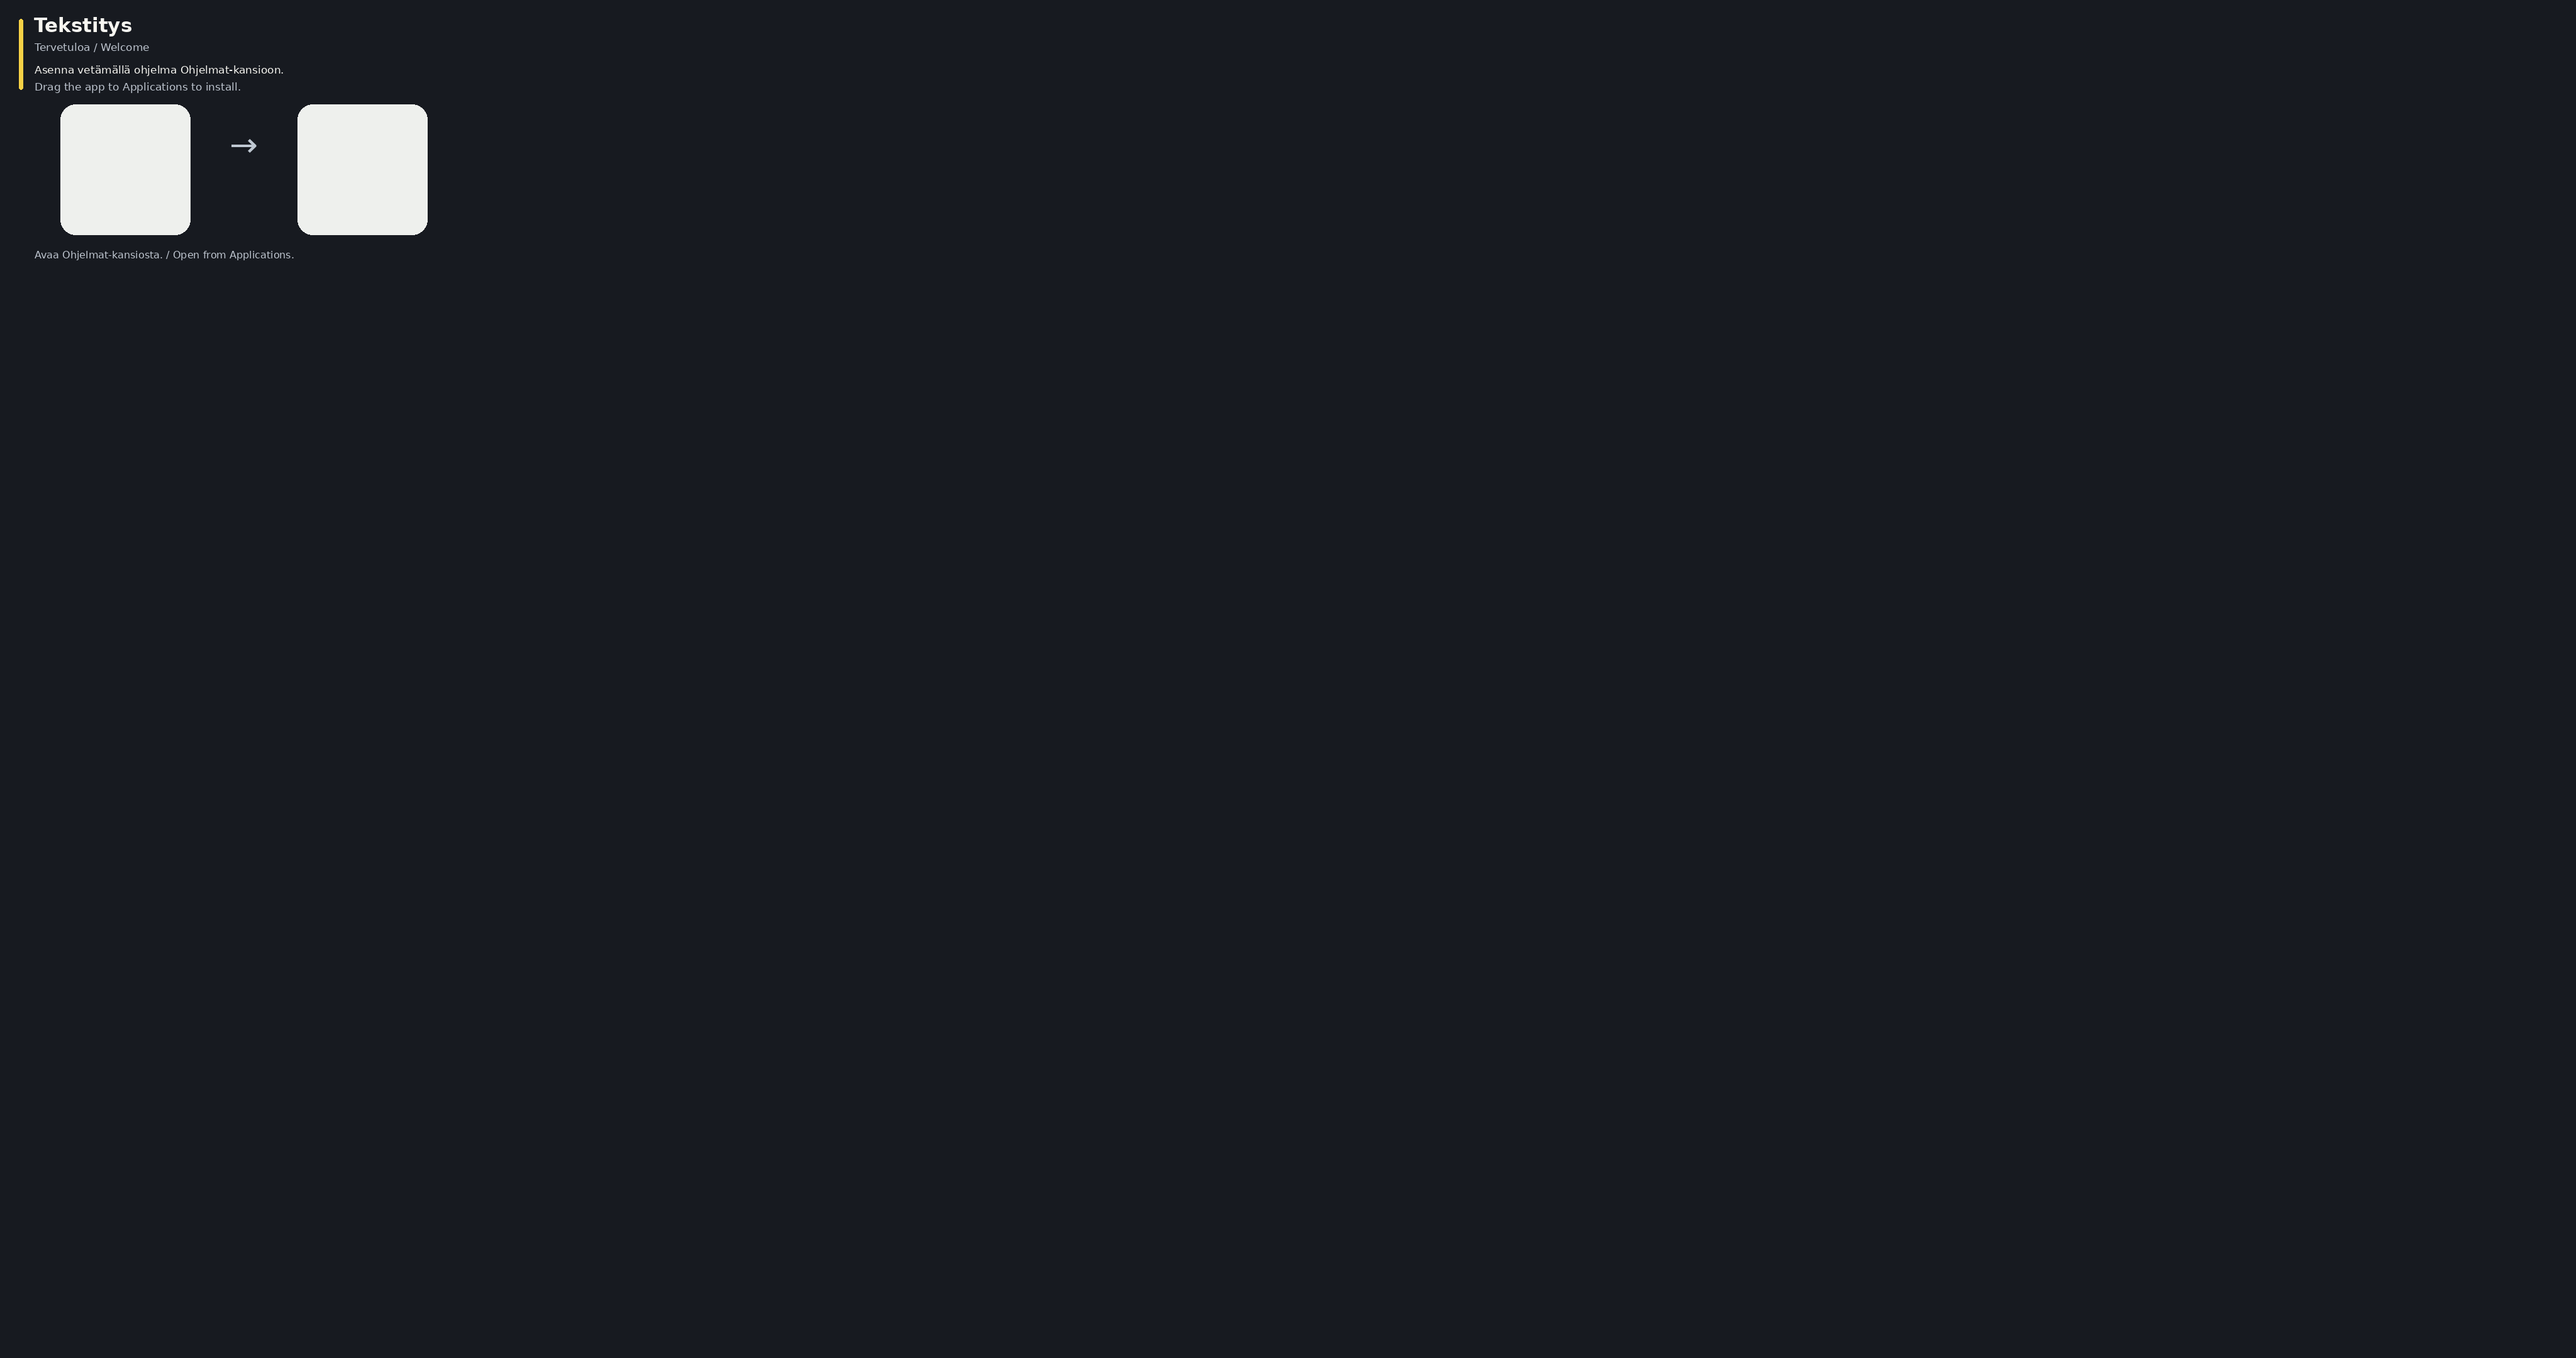
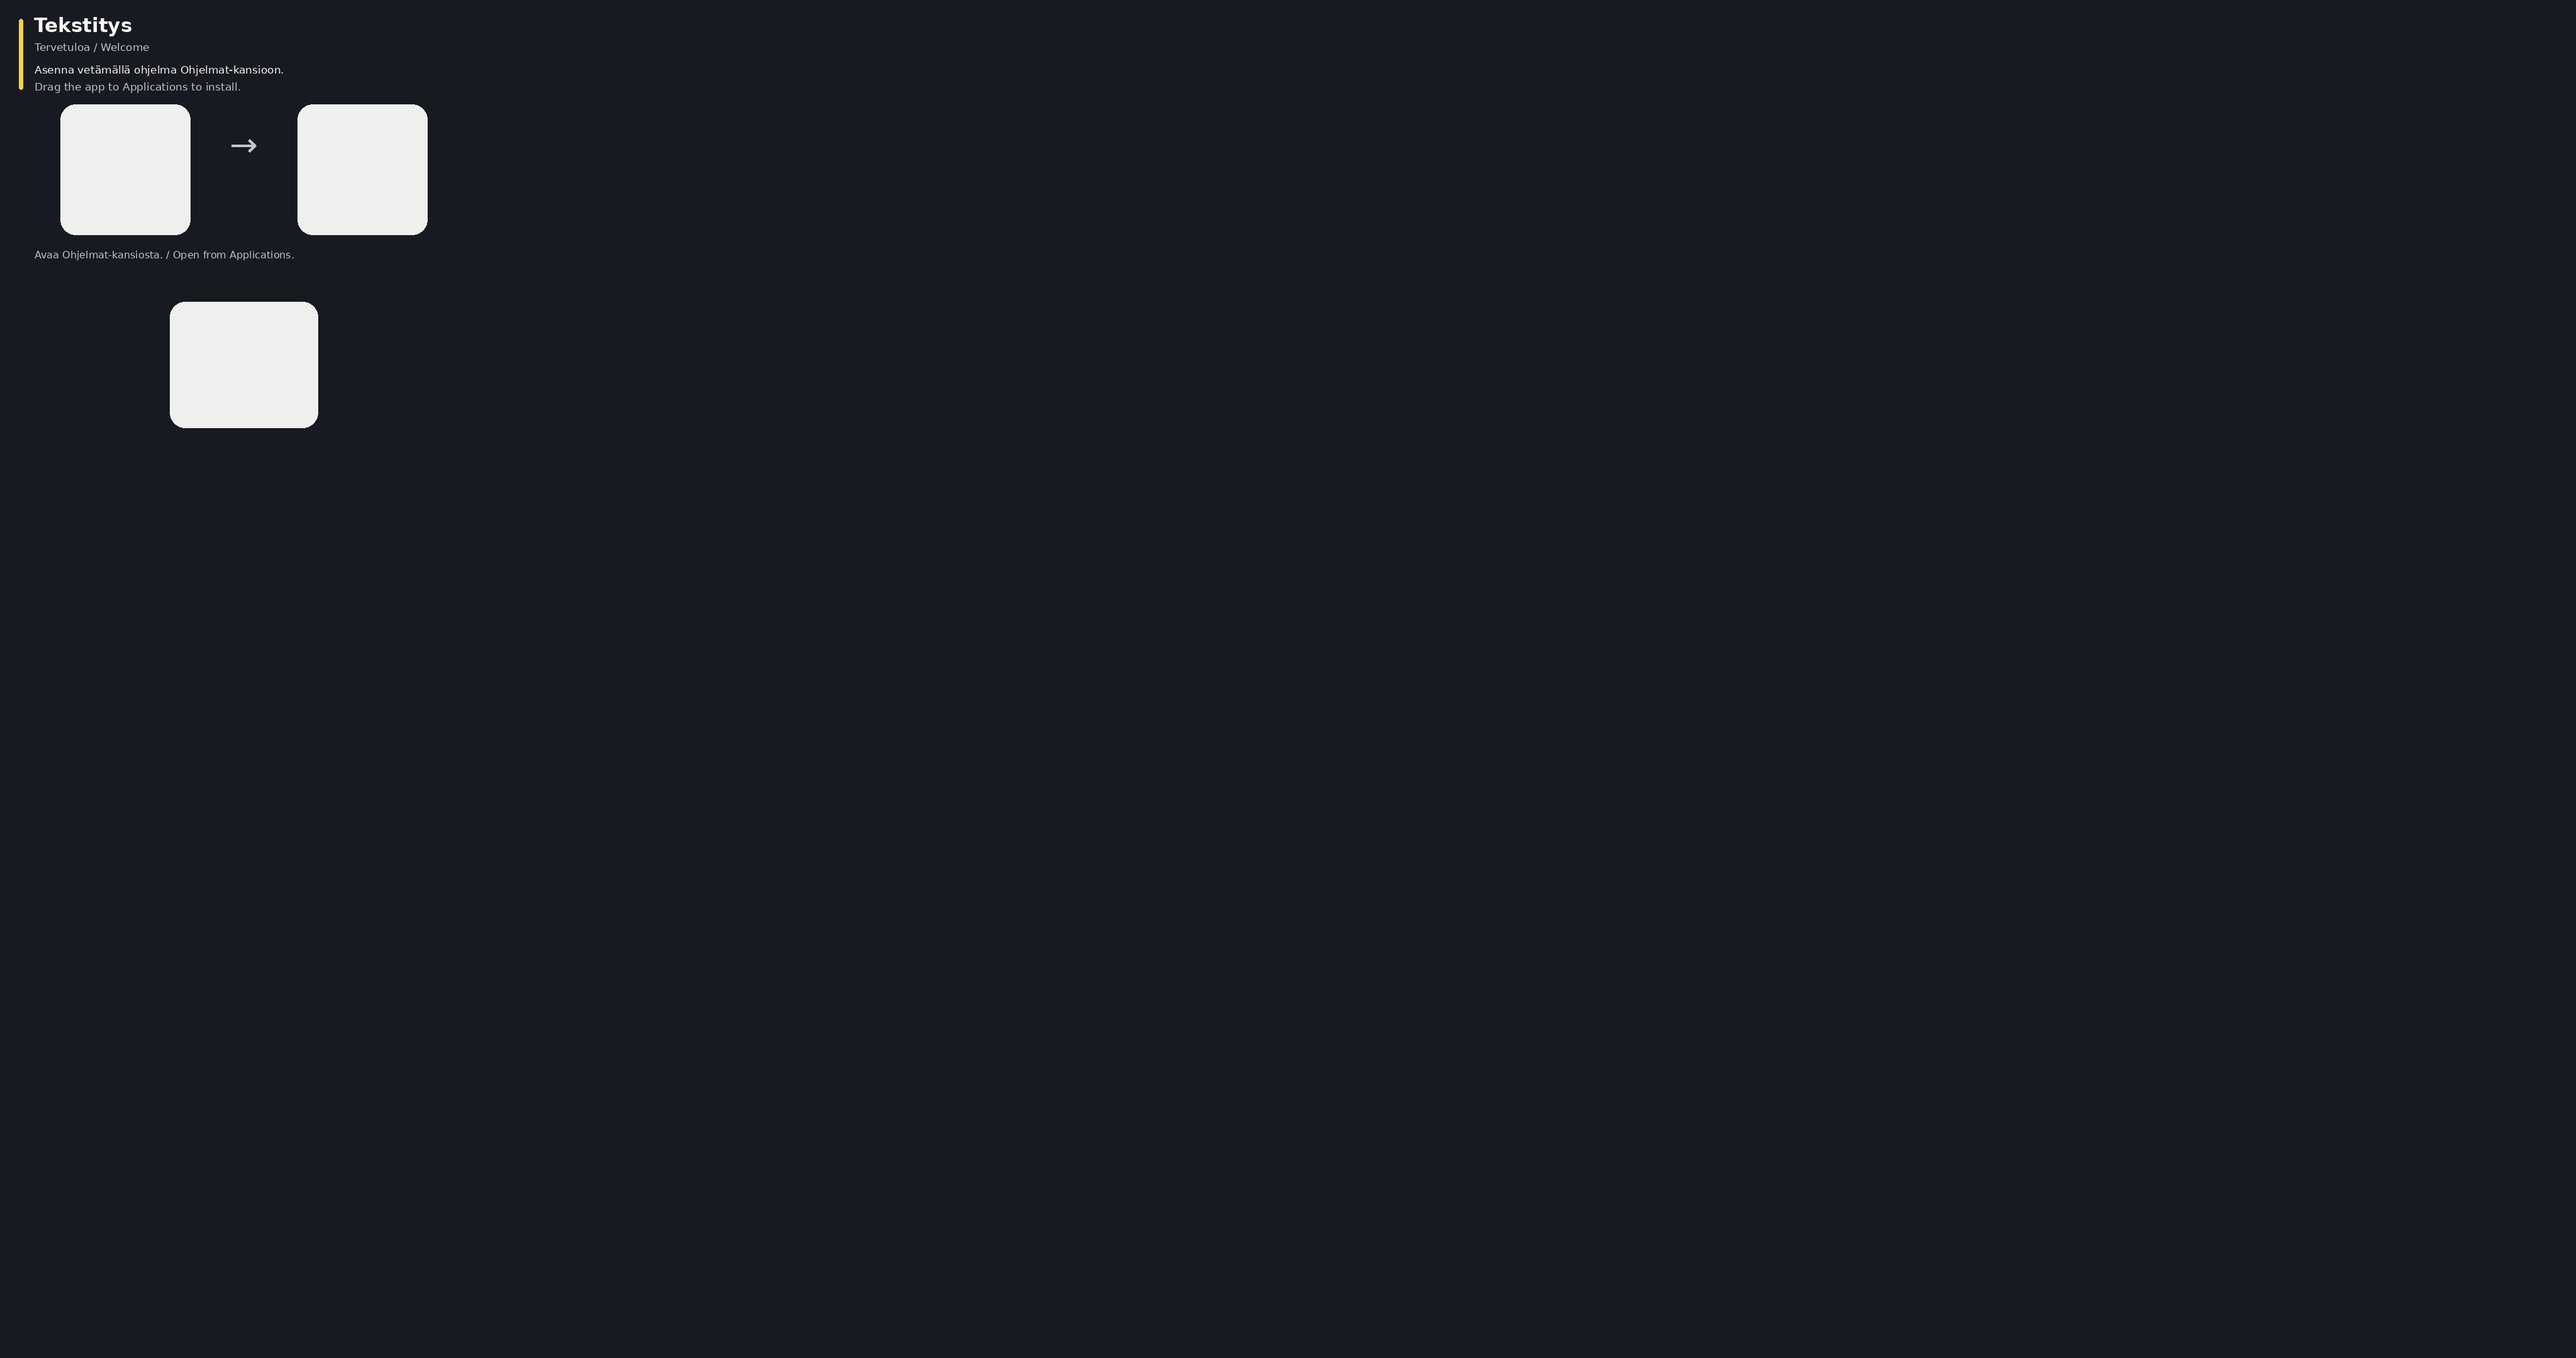
DMG welcome: third light well for the sources tarball, taller window
Devin finding on PR #76: proofreading-corresponding-sources.tar.gz sat at
(388,430) on the dark surround, so Finder rendered its black filename label
on near-black artwork. Mirror the Solmu pattern: add a third light well at
(270,480)-(505,680), move the tarball to (388,560) via --extra, and raise
the initial Finder window to 775x760 so the icon and label stay inside the
well. Regenerate the committed PNG.

Changed region(s): [[0.0625, 0.2171, 0.125, 0.3412]]

diff --git a/packaging/dmg/restyle.py b/packaging/dmg/restyle.py
@@ -22,7 +22,7 @@ APPLESCRIPT = """on run argv
         set current view of w to icon view
         set toolbar visible of w to false
         set statusbar visible of w to false
-        set bounds of w to {80, 80, 855, 620}
+        set bounds of w to {80, 80, 855, 840}
         set opts to icon view options of w
         set arrangement of opts to not arranged
         set icon size of opts to 128
@@ -38,7 +38,7 @@ APPLESCRIPT = """on run argv
         close w
         open rootFolder
         delay 2
-        set bounds of container window of rootFolder to {80, 80, 855, 620}
+        set bounds of container window of rootFolder to {80, 80, 855, 840}
         update rootFolder without registering applications
         delay 3
         close container window of rootFolder

diff --git a/packaging/dmg/render_backgrounds.py b/packaging/dmg/render_backgrounds.py
@@ -35,6 +35,9 @@ def draw(name, color):
         (388, 221), "→", font=ImageFont.truetype(FONT, 54), fill="#bfc8d2", anchor="mt"
     )
     d.text((55, 396), COPY["open"], font=ImageFont.truetype(FONT, 16), fill="#bdc4ce")
+    # Third light well for the whitelisted corresponding-sources tarball;
+    # its Finder label stays black, so it needs the same light background.
+    d.rounded_rectangle((270, 480, 505, 680), 24, fill="#eef0ed")
     return im
 
 

diff --git a/packaging/dmg/README.md b/packaging/dmg/README.md
@@ -11,9 +11,9 @@ and atomically replaces the image. App contents are not edited. No extra Python
 packages, downloaded executables, runner jobs, cache or artifact retention.
 
 `welcome*.png` is 4096 x 2160 at 72 dpi. The approved 775-point composition is
-anchored top-left; extra space is flat #171a20. Standard initial Finder bounds are 775 x 540
+anchored top-left; extra space is flat #171a20. Standard initial Finder bounds are 775 x 760
 including window chrome. Icon positions are (199,247) and (576,247), size 128,
-label size 16. The bottom 59 points of the 480-point composition are expendable.
+label size 16.
 A matching background colour is set before the picture, but Finder may ignore
 that fallback. Resize coverage beyond the 4096-point canvas is not promised.
 
@@ -46,11 +46,11 @@ are not visual acceptance. This opt-in is ignored outside GitHub Actions.
 Artwork source: `render_backgrounds.py`, Pillow and DejaVu Sans (development-only).
 The committed PNGs require no image library at packaging time. The standard layout expects only the app and Applications at the visible root.
 Unexpected extra files fail closed rather than hiding their content or leaving
-black labels on dark art. Solmu is the one exception, and only in its own repo:
-its restyle.py explicitly whitelists and positions a visible Documentation
-folder of shipped notices, with a third light well below the install pair and a
-taller initial window. This repo's restyle.py has no such exception; a
-Documentation folder here would fail closed like any other extra file.
+black labels on dark art. The one whitelisted exception here is
+proofreading-corresponding-sources.tar.gz, declared with --extra and positioned
+at (388,560) inside a third light well at (270,480)-(505,680) below the install
+pair, under the taller 775 x 760 initial window - the same pattern Solmu uses
+for its Documentation folder.
 
 The owner requested Finnish + English together on 11 November 2026.
 Finnish instructions use natural imperative wording; key senses checked against
